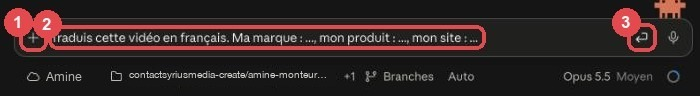
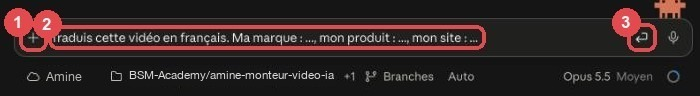
Passage sur l'organisation BSM Academy (nouveaux liens)

Changed region(s): [[0.18, 0.7188, 0.48, 0.8438]]

diff --git a/index.html b/index.html
@@ -376,7 +376,7 @@ BASH_MAX_TIMEOUT_MS=1800000</pre><button class="copier" data-cible="variables">C
     if(i===0)suivant.disabled=!p;
     // pseudo GitHub : prépare les boutons « Lancer Amine » (deux dépôts + environnement préchoisis) et « Dépose ta vidéo »
     var g=pseudo.value.trim().replace(/^@/,'').replace(/[^A-Za-z0-9-]/g,'');
-    var depots='contactsyriusmedia-create/amine-monteur-video-ia'+(g?','+g+'/mes-videos-amine-ia':'');
+    var depots='BSM-Academy/amine-monteur-video-ia'+(g?','+g+'/mes-videos-amine-ia':'');
     document.querySelectorAll('.lancer').forEach(function(a){
       a.href='https://claude.ai/code?repositories='+encodeURIComponent(depots)+'&environment=Amine&prompt='+encodeURIComponent(a.dataset.prompt||'');
     });
